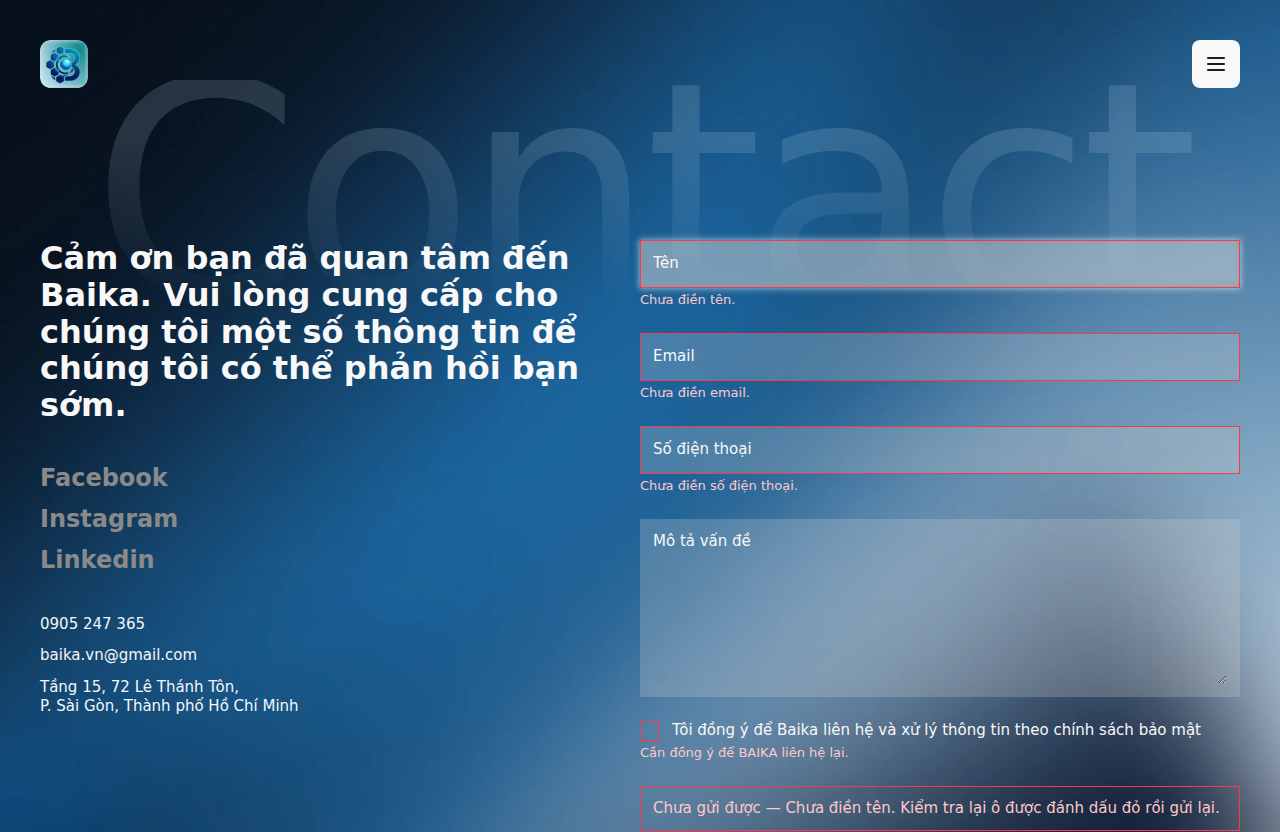
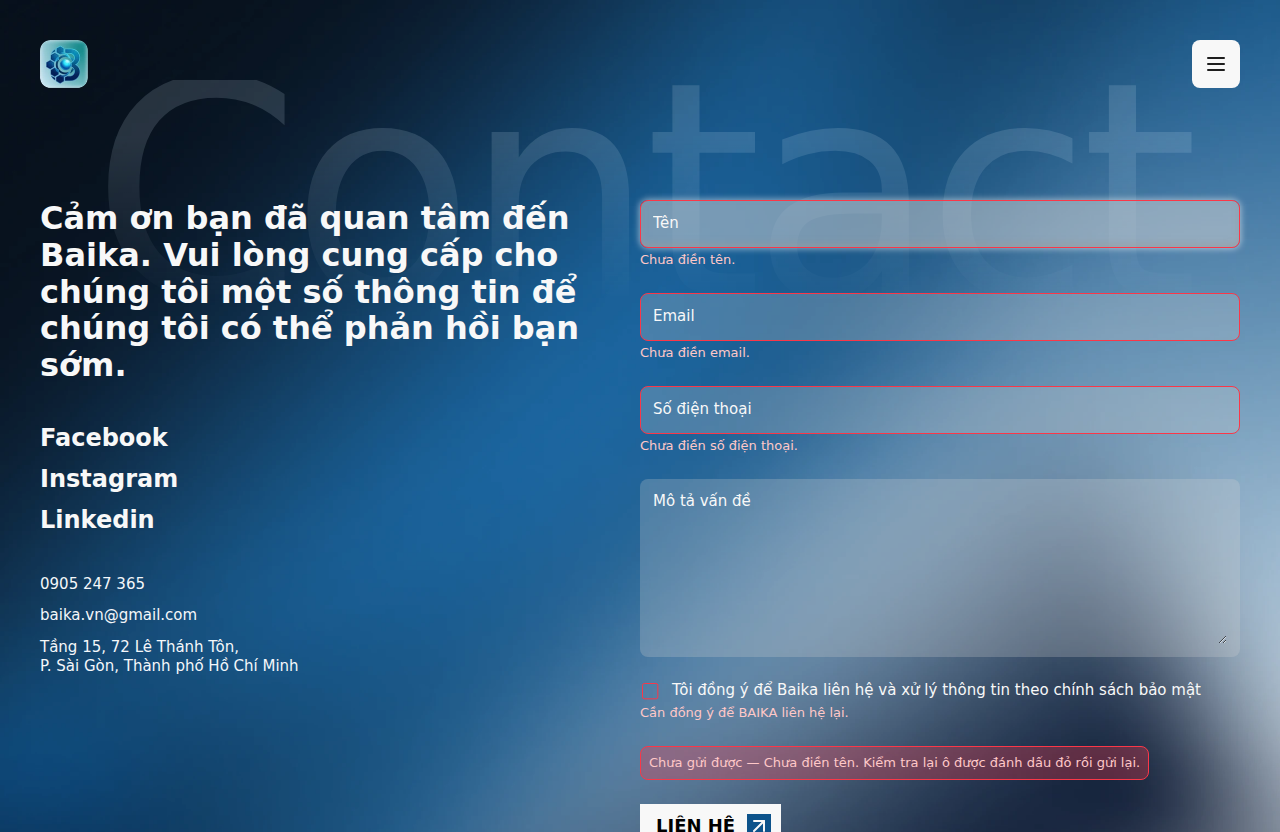
Badge dung Figma, checkbox SVG bo goc, mail submit chuan

Changed region(s): [[0.5, 0.2188, 0.9688, 0.6562], [0.0312, 0.25, 0.4688, 0.875], [0.5, 0.7812, 0.9688, 1.0]]

diff --git a/api/contact.ts b/api/contact.ts
@@ -99,17 +99,78 @@ export default async function handler(req: Req, res: Res): Promise<void> {
     return;
   }
 
-  const noiDung = [
-    `Tên:            ${ten}`,
-    `Email:          ${email}`,
-    `Số điện thoại:  ${sdt}`,
+  // Giờ Việt Nam, đọc được ngay trong hộp thư — không bắt ai tự đổi múi giờ.
+  const nhanLuc = new Intl.DateTimeFormat('vi-VN', {
+    timeZone: 'Asia/Ho_Chi_Minh',
+    dateStyle: 'full',
+    timeStyle: 'short',
+  }).format(new Date());
+
+  const dong: Array<[string, string]> = [
+    ['Tên', ten],
+    ['Email', email],
+    ['Số điện thoại', sdt],
+    ['Mô tả vấn đề', mota || '(để trống)'],
+  ];
+
+  /* ---- Bản CHỮ THUẦN ------------------------------------------------
+     Bắt buộc phải có, không phải cho đẹp: một số ứng dụng mail và phần
+     lớn bộ lọc rác đọc bản này. Mail chỉ có HTML dễ bị đẩy vào Spam hơn. */
+  const banChu = [
+    'LIÊN HỆ MỚI TỪ baika.vn',
+    '='.repeat(40),
     '',
-    'Mô tả vấn đề:',
-    mota || '(để trống)',
+    ...dong.map(([k, v]) => `${k}:\n  ${v.replace(/\n/g, '\n  ')}\n`),
+    '-'.repeat(40),
+    'Khách đã đồng ý để BAIKA liên hệ và xử lý thông tin.',
+    `Nhận lúc: ${nhanLuc} (giờ Việt Nam)`,
+    'Gửi từ: trang /lien-he',
     '',
-    `Đã đồng ý xử lý thông tin: có`,
-    `Nhận lúc: ${new Date().toISOString()}`,
+    'Bấm Trả lời để trả lời thẳng cho khách.',
   ].join('\n');
+
+  /* ---- Bản HTML ------------------------------------------------------
+     Viết bằng bảng và style nội tuyến. Không phải vì lạc hậu — ứng dụng
+     mail (nhất là Outlook và Gmail) cắt bỏ thẻ <style>, bỏ qua flexbox
+     và grid. Bảng + style nội tuyến là thứ duy nhất hiển thị giống nhau
+     ở mọi nơi. Đây là quy ước chung của email HTML, không phải lựa chọn. */
+  const esc = (s: string) =>
+    s.replace(/&/g, '&amp;').replace(/</g, '&lt;').replace(/>/g, '&gt;').replace(/"/g, '&quot;');
+
+  const hang = dong
+    .map(
+      ([k, v]) => `
+        <tr>
+          <td style="padding:10px 0;border-bottom:1px solid #e3e3e3;color:#6d6d6d;font-size:13px;width:150px;vertical-align:top;">${esc(k)}</td>
+          <td style="padding:10px 0;border-bottom:1px solid #e3e3e3;color:#1e1e1e;font-size:15px;vertical-align:top;white-space:pre-wrap;">${esc(v)}</td>
+        </tr>`,
+    )
+    .join('');
+
+  const banHtml = `<!doctype html>
+<html lang="vi"><body style="margin:0;padding:24px;background:#f1f1f1;font-family:Arial,Helvetica,sans-serif;">
+  <table role="presentation" cellpadding="0" cellspacing="0" style="max-width:600px;margin:0 auto;background:#f8f8f8;border:1px solid #e3e3e3;border-radius:8px;">
+    <tr>
+      <td style="padding:20px 24px;background:#0d538b;border-radius:8px 8px 0 0;">
+        <div style="color:#f8f8f8;font-size:18px;font-weight:bold;">BAIKA · Liên hệ mới</div>
+        <div style="color:#d6ebfa;font-size:13px;padding-top:4px;">Gửi từ biểu mẫu trang /lien-he</div>
+      </td>
+    </tr>
+    <tr>
+      <td style="padding:8px 24px 16px;">
+        <table role="presentation" cellpadding="0" cellspacing="0" width="100%">${hang}</table>
+      </td>
+    </tr>
+    <tr>
+      <td style="padding:0 24px 24px;color:#6d6d6d;font-size:12px;line-height:18px;">
+        Khách đã đồng ý để BAIKA liên hệ và xử lý thông tin.<br />
+        Nhận lúc: ${esc(nhanLuc)} (giờ Việt Nam)<br /><br />
+        Bấm <strong>Trả lời</strong> để trả lời thẳng cho khách
+        (<a href="mailto:${esc(email)}" style="color:#0d538b;">${esc(email)}</a>).
+      </td>
+    </tr>
+  </table>
+</body></html>`;
 
   try {
     const r = await fetch('https://api.resend.com/emails', {
@@ -119,12 +180,15 @@ export default async function handler(req: Req, res: Res): Promise<void> {
         'Content-Type': 'application/json',
       },
       body: JSON.stringify({
-        from,
+        // Tên hiển thị trước địa chỉ → hộp thư hiện "BAIKA Website"
+        // thay vì một địa chỉ trần trụi.
+        from: `BAIKA Website <${from}>`,
         to: [to],
-        // Trả lời thẳng vào mail là trả lời đúng cho khách, không phải cho hệ thống.
+        // Bấm Trả lời là trả lời cho KHÁCH, không phải cho hệ thống.
         reply_to: email,
         subject: oneLine(`[baika.vn] Liên hệ mới — ${ten}`),
-        text: noiDung,
+        text: banChu,
+        html: banHtml,
       }),
     });
 
